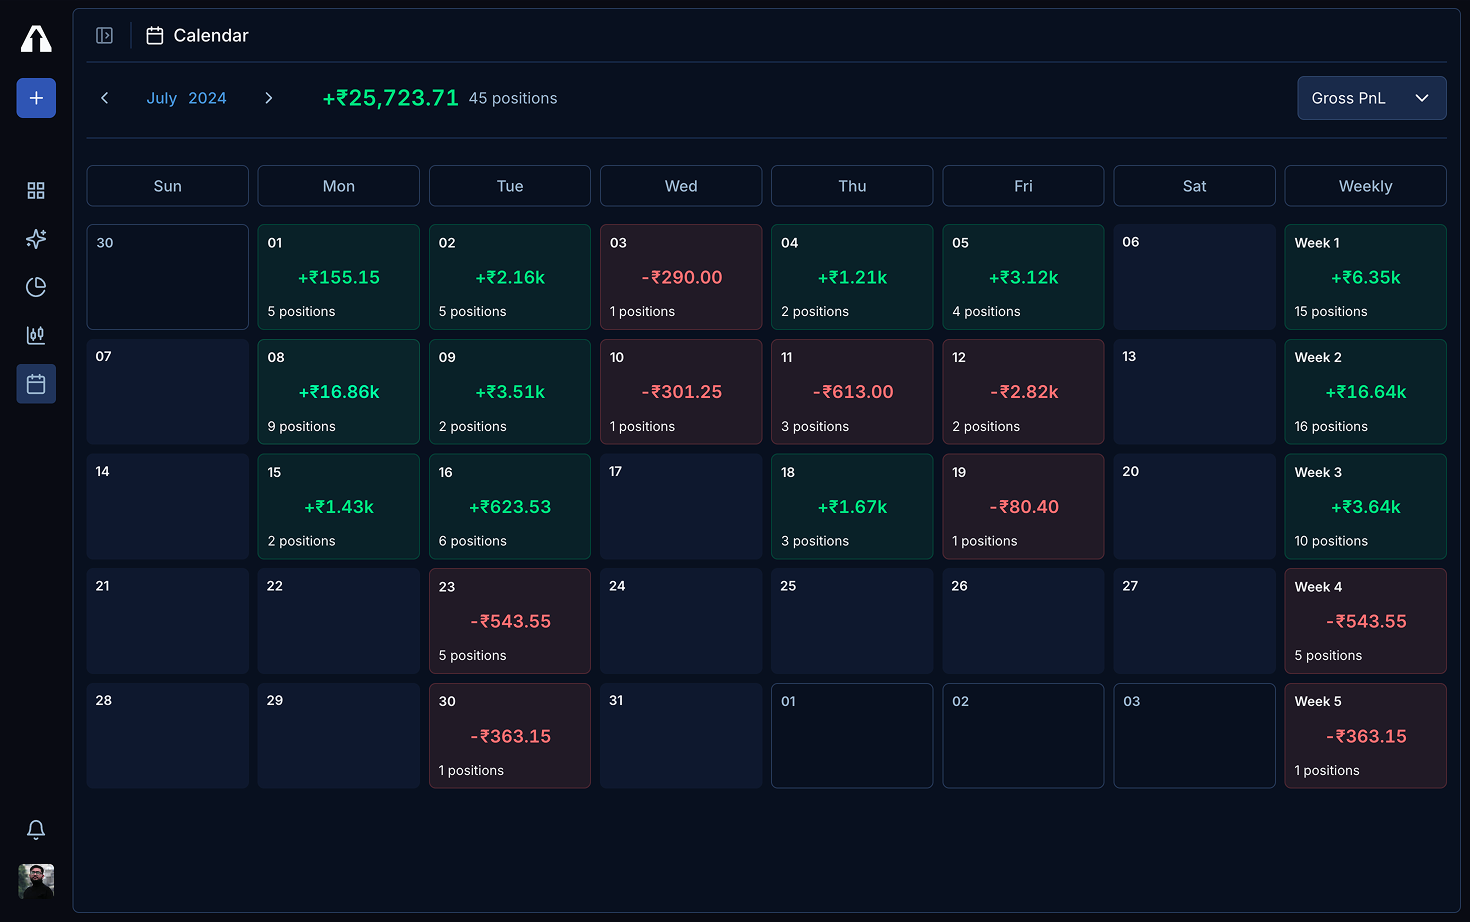
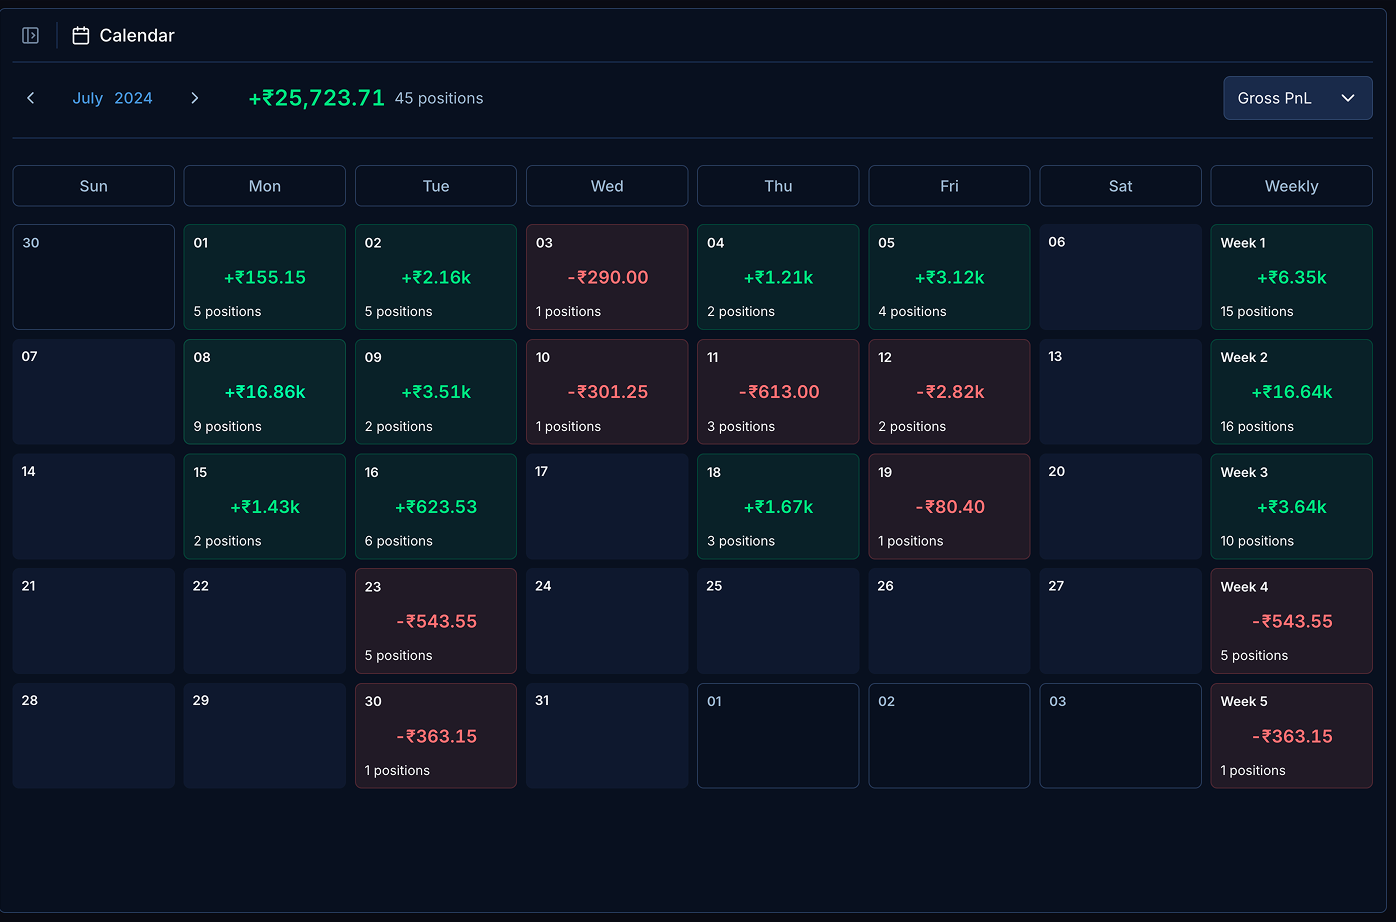
feat: rewrite homepage FAQ; crop sidebar out of journal screenshots

diff --git a/components/faq.tsx b/components/faq.tsx
@@ -1,6 +1,7 @@
 "use client";
 
 import { useState } from "react";
+import Link from "next/link";
 
 import { cn } from "@/lib/utils";
 
@@ -15,25 +16,49 @@ const FAQS = [
         ),
     },
     {
-        q: "Is the Screener free?",
+        q: "Do you give tips, signals, or trade calls?",
         a: (
             <>
-                Yes. You can run scans and open any published screener with no
-                signup. A free account lets you save, star, clone, and publish
-                screeners, and use Progressive Scan.
+                Never. We don&apos;t run a tip group and we&apos;ll never sell
+                you one. Arthveda is about your process: discovery, watchlists,
+                journaling, and review. No calls, no guaranteed returns, no
+                copy-trading.
             </>
         ),
     },
     {
-        q: "Which markets does it cover?",
-        a: <>Indian equities, on the NSE and BSE.</>,
-    },
-    {
-        q: "Is it for intraday trading?",
+        q: "Is Arthveda free?",
         a: (
             <>
-                No. Arthveda is built for swing and positional trading, on
-                daily, end-of-day workflows.
+                Yes. Arthveda is free forever, with limits. Every feature is
+                usable on the free plan except uploads. When you outgrow the
+                limits, Pro lifts them. See{" "}
+                <Link href="/pricing">pricing</Link>.
+            </>
+        ),
+    },
+    {
+        q: "Which markets and segments does it support?",
+        a: (
+            <>
+                Most of them. Your{" "}
+                <Link href="/product/journal">Journal</Link> takes everything
+                you trade: equity, crypto, and F&amp;O across stock, index, and
+                commodity, whether you sync it from Zerodha and other brokers or
+                log it by hand. The one stock-only part is{" "}
+                <Link href="/product/discover">Discover</Link>, our screener:
+                Indian equities on the NSE and BSE.
+            </>
+        ),
+    },
+    {
+        q: "Is it only for swing traders?",
+        a: (
+            <>
+                No. It fits any style, intraday included. Swing and positional
+                stock traders just get the most from it, because{" "}
+                <Link href="/product/discover">Discover</Link> is built to
+                surface stocks worth holding.
             </>
         ),
     },
@@ -41,26 +66,21 @@ const FAQS = [
         q: "Can I import trades from my broker?",
         a: (
             <>
-                Yes. The Journal supports manual logging and broker imports. See
-                the brokers page for the supported list.
+                Yes. Log trades manually, or pull them in automatically with
+                Broker Sync. SEBI requires brokers to log you out every morning,
+                so a synced setup needs a quick login to your broker once a day.
+                Broker Sync supports Zerodha today, with more{" "}
+                <Link href="/brokers">brokers</Link> planned.
             </>
         ),
     },
     {
-        q: "Will my trades and notes be public?",
+        q: "Will my trades, journals, and watchlists be public?",
         a: (
             <>
-                No. Everything is private by default. Nothing is public unless
-                you explicitly publish or share it.
-            </>
-        ),
-    },
-    {
-        q: "Do you give tips or signals?",
-        a: (
-            <>
-                Never. Arthveda is about process, discovery, journaling, and
-                review. No tips, no guaranteed returns, no copy-trading.
+                No. Everything is private by default. Your trades, journals, and
+                watchlists are yours alone. Nothing is public unless you
+                explicitly publish or share it.
             </>
         ),
     },
@@ -142,7 +162,7 @@ function FAQItem({ q, a, open, onToggle }: FAQItemProps) {
             <div
                 className={cn(
                     "overflow-hidden transition-all duration-300 ease-out",
-                    open ? "max-h-40 pb-5" : "max-h-0",
+                    open ? "max-h-72 pb-5" : "max-h-0",
                 )}
             >
                 <div className="text-sm text-text-muted leading-relaxed">
